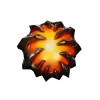
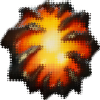
Улучшил логику столкновения шара с кирпичами, поменял немного ресурс картинки (теперь визуально не отскакивает от воздуха), добавил констант, добавил конец игры, начал работать над классом платоформы игрока.

diff --git a/ArkanoidWF/Ball.cs b/ArkanoidWF/Ball.cs
@@ -1,19 +1,14 @@
-using System;
-using System.Collections.Generic;
-using System.Linq;
-using System.Text;
-using System.Threading.Tasks;
+using ArkanoidWF.Constants;
 
 namespace ArkanoidWF
 {
     internal class Ball
     {
-        private static readonly Image BallImage = Properties.Resources.aegis;
 
         /// <summary>
         /// Переменная картинки шара
         /// </summary>
-        public Image Image { get; } = BallImage;
+        public Image Image { get; } = BallParameters.Image;
 
         /// <summary>
         /// Координата X шара
@@ -40,8 +35,8 @@ namespace ArkanoidWF
                 // Опционально: нормализация
                 _angle = (float)(_angle % (2 * Math.PI));
                 if (_angle < 0) _angle += (float)(2 * Math.PI);
-            }
-        }
+            } 
+        } 
 
         /// <summary>
         /// Скорость шара
@@ -51,18 +46,23 @@ namespace ArkanoidWF
         /// <summary>
         /// Размер шара
         /// </summary>
-        public readonly int Size;
+        public int Size { get; } = BallParameters.Size;
+
+        /// <summary>
+        /// Радиус
+        /// </summary>
+        private readonly float radius;
 
         // Координаты центра шара
-        private FloatPoint Center => new FloatPoint(X + Size / 2f, Y + Size / 2f);
+        private FloatPoint Center => new FloatPoint(X + radius, Y + radius);
 
-        public Ball(float x, float y, int size, float speed, float angle)
+        public Ball(float x, float y, float speed)
         {
             X = x;
             Y = y;
-            Size = size;
             Speed = speed;
-            Angle = angle;
+            radius = Size / 2f;
+            Angle = (float)Math.PI / 2f;
         }
         private void CollideVertical()
         {
@@ -70,7 +70,7 @@ namespace ArkanoidWF
         }
         private void CollideHorizontal()
         {
-            Angle =  - Angle;
+            Angle = -Angle;
         }
         public void Move()
         {
@@ -84,6 +84,81 @@ namespace ArkanoidWF
                 CollideHorizontal();
             if (X <= 0 || X + Size >= maxWidth)
                 CollideVertical();
+        }
+        public void BounceOffBrick(Brick brick)
+        {
+            if (!IsBallCollidesWith(brick))
+            {
+                return;
+            }
+
+            brick.TakeDamage(1);
+            HitSide side = GetHitSide(brick);
+
+            switch (side)
+            {
+                case HitSide.Top:
+                case HitSide.Bottom:
+                    if (side == HitSide.Top)
+                    {
+                        Y = brick.Y - Size; // поднять шар над кирпичом
+                    }
+                    else if (side == HitSide.Bottom)
+                    {
+                        Y = brick.Y + brick.Height; // опустить под кирпич
+                    }
+                    CollideHorizontal(); // отскок по Y
+                    break;
+                case HitSide.Left:
+                case HitSide.Right:
+                    if (side == HitSide.Left)
+                    {
+                        X = brick.X - Size; // поднять шар над кирпичом
+                    }
+                    else if (side == HitSide.Right)
+                    {
+                        X = brick.X + brick.Width; // опустить под кирпич
+                    }
+                    CollideVertical();   // отскок по X
+                    break;
+            }
+
+        }
+        private bool IsBallCollidesWith(Brick brick)
+        {
+
+            // Ближайшая точка на прямоугольнике к центру окружности
+            float closestX = Math.Clamp(Center.X, brick.X, brick.X + brick.Width);
+            float closestY = Math.Clamp(Center.Y, brick.Y, brick.Y + brick.Height);
+
+            // Квадрат расстояния от центра до ближайшей точки
+            float dx = Center.X - closestX;
+            float dy = Center.Y - closestY;
+            float distanceSquared = dx * dx + dy * dy;
+            return (distanceSquared) <= radius * radius;
+        }
+        private HitSide GetHitSide(Brick brick)
+        {
+            // Границы кирпича
+            float left = brick.X;
+            float right = brick.X + brick.Width;
+            float top = brick.Y;
+            float bottom = brick.Y + brick.Height;
+
+            // Расстояния от центра шара до граней
+            float overlapLeft = Center.X - left;
+            float overlapRight = right - Center.X;
+            float overlapTop = Center.Y - top;
+            float overlapBottom = bottom - Center.Y;
+
+            // Находим минимальное перекрытие (глубину проникновения)
+            float minOverlap = Math.Min(Math.Min(overlapLeft, overlapRight),
+                                        Math.Min(overlapTop, overlapBottom));
+
+            if (minOverlap == overlapLeft) return HitSide.Left;
+            if (minOverlap == overlapRight) return HitSide.Right;
+            if (minOverlap == overlapTop) return HitSide.Top;
+            return HitSide.Bottom;
         }
     }
 }

diff --git a/ArkanoidWF/GameCore.cs b/ArkanoidWF/GameCore.cs
@@ -1,4 +1,5 @@
 
+using ArkanoidWF.Constants;
 
 namespace ArkanoidWF
 {
@@ -11,6 +12,7 @@ namespace ArkanoidWF
         private readonly float maxHeight;
 
         private readonly List<Brick> bricks = new List<Brick>();
+        public bool isGameOver { get; private set; } = false;
 
         // Внешний код может только читать, но не менять список
         public IReadOnlyList<Brick> Bricks => bricks.AsReadOnly();
@@ -20,22 +22,52 @@ namespace ArkanoidWF
 
             this.maxWidth = maxWidth;
             this.maxHeight = maxHeight;
-            ball = new Ball(x: 300, y: 300, size: 50, speed: maxWidth / 100, angle: 1f);
-
-            var brick = new Brick(x: 100, y: 100, hp: 3);
-            bricks.Add(brick);
+            ball = new Ball(x: maxWidth/2, y: 300, speed: 10);
+            fillBricksLevelOne();
         }
-
-        public void Tick()
+        private void fillBricksLevelOne()
         {
-            ball.Move();
-            ball.BounceOffWalls(maxWidth, maxHeight);
+            var lastBrickRightX = 0; // координата X правой стороны последнего кирпича в ряду
+            var brickWidth = BrickParameters.Width;
+            while (lastBrickRightX + brickWidth < maxWidth)
+            {
+                var brick = new Brick(x: bricks.Count * brickWidth, y: 150, hp: 3);
+                lastBrickRightX += brickWidth;
+                bricks.Add(brick);
+            }
+            // смещение кирпичей по центру
+            var displacement = (maxWidth - bricks.Count * brickWidth) / 2;
+
             foreach (var brick in bricks)
             {
-                ball.BounceOffBrick(brick.Bounds);
+                brick.X += displacement;
             }
         }
+        public void Tick()
+        {
+            if (!isGameOver)
+            {
+                ball.Move();
+                ball.BounceOffWalls(maxWidth, maxHeight);
+                foreach (var brick in bricks.ToList())
+                {
+                    ball.BounceOffBrick(brick);
+                    if (brick.HP < 1)
+                    {
+                        bricks.Remove(brick);
+                        checkIsGameOver();
+                    }
+                }
+            }
 
+        }
+        private void checkIsGameOver()
+        {
+            if (bricks.Count == 0)
+            {
+                isGameOver = true;
+            }
+        }
         // Только данные для отрисовки - без доступа к самому Ball
         public float BallX => ball.X;
         public float BallY => ball.Y;

diff --git a/ArkanoidWF/Brick.cs b/ArkanoidWF/Brick.cs
@@ -5,10 +5,10 @@ namespace ArkanoidWF
     internal class Brick
     {
 
-        public int X { get; set; }
-        public int Y { get; set; }
-        public int Width { get; } = BrickParameters.Width;
-        public int Height { get; } = BrickParameters.Height;
+        public float X { get; set; }
+        public float Y { get; set; }
+        public  int Width { get; } = BrickParameters.Width;
+        public  int Height { get; } = BrickParameters.Height;
         private int _hp;
         public int HP
         {
@@ -20,18 +20,12 @@ namespace ArkanoidWF
                 else _hp = value;
             }
         }
-        public Rectangle Bounds => new Rectangle(X, Y, Width, Height);
+        public Rectangle Bounds => new Rectangle((int)X, (int)Y, Width, Height);
         public Color Color
         {
             get
             {
-                return HP switch
-                {
-                    1 => BrickColors.ColorFor1HP,
-                    2 => BrickColors.ColorFor2HP,
-                    3 => BrickColors.ColorFor3HP,
-                    _ => Color.Black 
-                };
+                return setColor();
             }
         }
         public Brick(int x, int y, int hp)
@@ -39,6 +33,15 @@ namespace ArkanoidWF
             X = x;
             Y = y;
             HP = hp;
+        }
+        private Color setColor() {
+            return HP switch
+            {
+                1 => BrickColors.ColorFor1HP,
+                2 => BrickColors.ColorFor2HP,
+                3 => BrickColors.ColorFor3HP,
+                _ => Color.Black
+            };
         }
         public void TakeDamage(int damage = 1)
         {

diff --git a/ArkanoidWF/Constants/BallParameters.cs b/ArkanoidWF/Constants/BallParameters.cs
@@ -6,10 +6,9 @@ using System.Threading.Tasks;
 
 namespace ArkanoidWF.Constants
 {
-    internal static class BrickParameters
+    internal class BallParameters
     {
-        public const int Width = 50;
-        public const int Height = 20;
-        public const float Bold = 2f;
+        public static readonly Image Image = Properties.Resources.aegis;
+        public const int Size = 20;
     }
 }

diff --git a/ArkanoidWF/Constants/PlayerPlatformParameters.cs b/ArkanoidWF/Constants/PlayerPlatformParameters.cs
@@ -6,10 +6,7 @@ using System.Threading.Tasks;
 
 namespace ArkanoidWF.Constants
 {
-    internal static class BrickParameters
+    internal static class PlayerPlatformParameters
     {
-        public const int Width = 50;
-        public const int Height = 20;
-        public const float Bold = 2f;
     }
 }

diff --git a/ArkanoidWF/Hitside.cs b/ArkanoidWF/Hitside.cs
@@ -1,0 +1,17 @@
+using System;
+using System.Collections.Generic;
+using System.Linq;
+using System.Text;
+using System.Threading.Tasks;
+
+namespace ArkanoidWF
+{
+    internal enum HitSide
+    {
+        None,
+        Top,
+        Bottom,
+        Left,
+        Right
+    }
+}

diff --git a/ArkanoidWF/PlayerPlatform.cs b/ArkanoidWF/PlayerPlatform.cs
@@ -1,0 +1,13 @@
+using System;
+using System.Collections.Generic;
+using System.Linq;
+using System.Text;
+using System.Threading.Tasks;
+
+namespace ArkanoidWF
+{
+    internal class PlayerPlatform
+    {
+
+    }
+}
